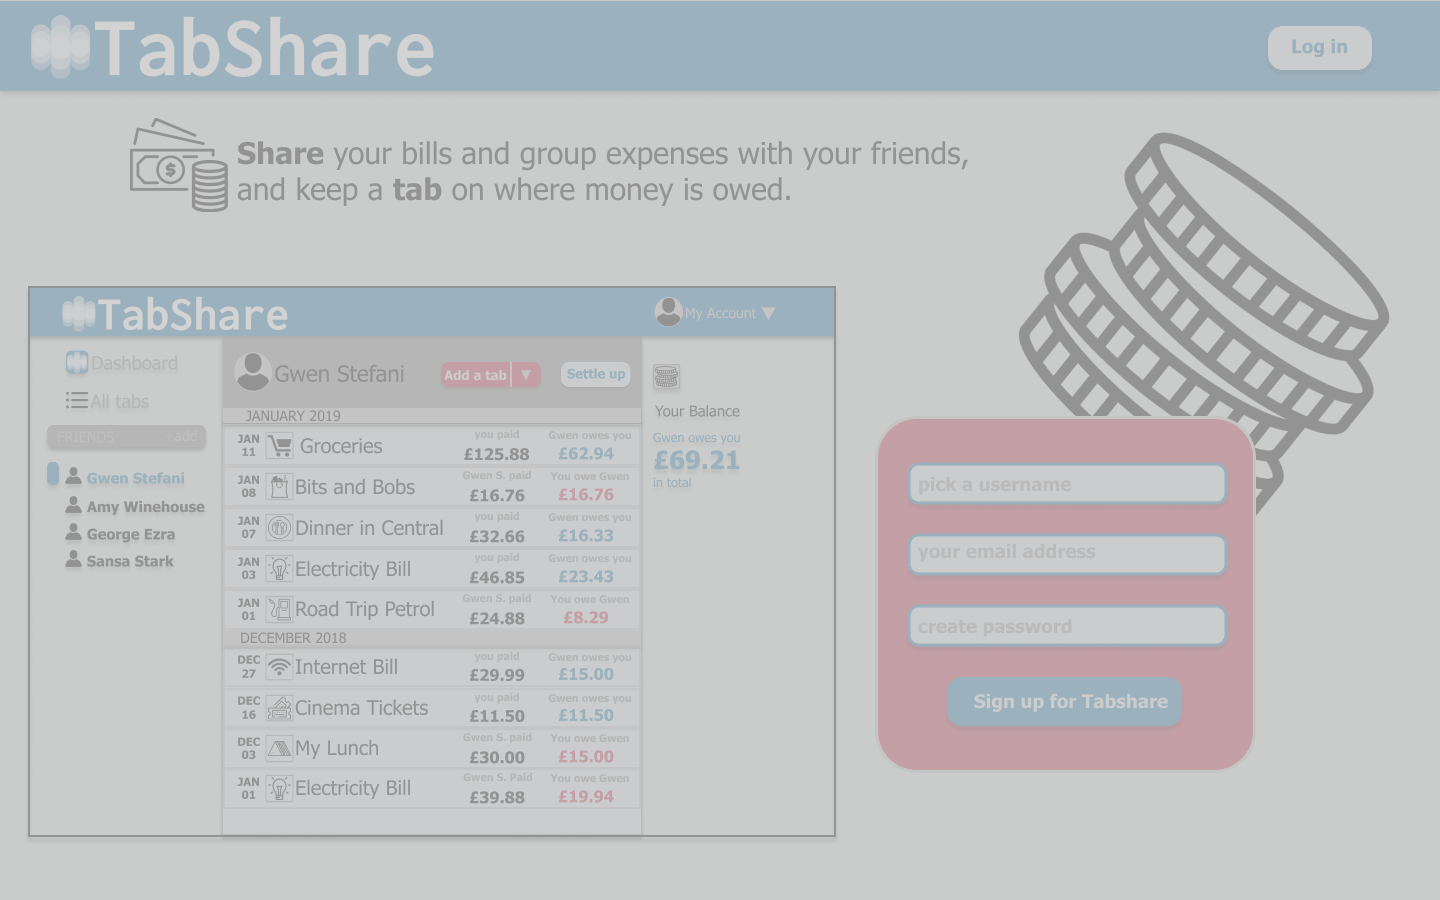
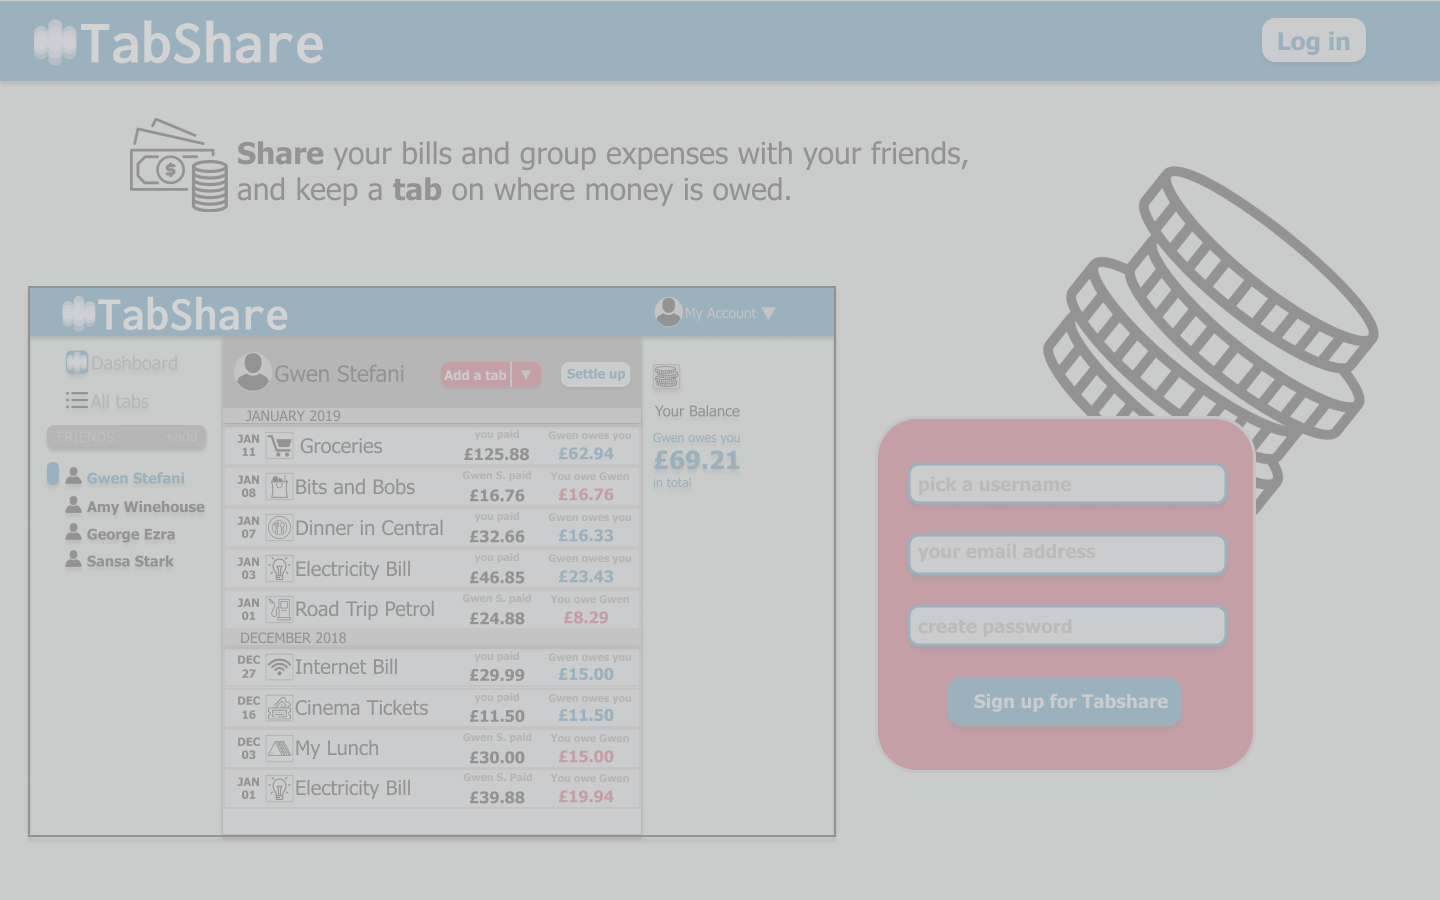
rendering dash panel on signup and login with greeting

Changed region(s): [[0.0, 0.0, 1.0, 0.1244], [0.6875, 0.1556, 0.9688, 0.5289]]

diff --git a/src/components/Dashboard.js b/src/components/Dashboard.js
@@ -5,11 +5,14 @@ import '../App.css';
 import TabShareLogo from '../images/TabShareLogo.png'
 import MidSection from './MidSection'
 import SideBar from './SideBar'
-
+import ProjectIcon from '../images/ProjectIcon.png'
 
 
 class Dashboard extends React.Component {
 
+  dashIcon = {
+    imgurl: ProjectIcon
+  }
  // LogoutBtnClick = () => (
  //    <Route render={({ history}) => (
  //      <button className='logout-btn' type="button" onClick={() => this.handleLogout}>Log out</button>
@@ -25,17 +28,16 @@ class Dashboard extends React.Component {
   render() {
       const { currentUser } = this.props;
 
-
     return(
-      <div {...this.props}>
-        <main className='web-page-box' {...this.props}>
+      <div >
+        <main className='web-page-box'>
           <div className='nav-bar-box'>
             <img className="tab-share-logo" alt="main-logo" src={TabShareLogo} />
             <button className='logout-btn' type="button" onClick={this.handleLogout}>Log out</button>
           </div>
-          <h1 className="login-welcome">Welcome {this.props.value} !</h1>
+          <h1 className="login-welcome">Welcome {currentUser} !</h1>
           <MidSection />
-          <SideBar />
+          <SideBar dashIcon={this.dashIcon.imgurl} />
         </main>
       </div>
     )

diff --git a/src/App.css b/src/App.css
@@ -6,12 +6,14 @@
 }
 
 .nav-bar-box {
-  width: 2880px;
+  width: 1440px;
   height: 80px;
   display: flex;
   background: #2C77A1;
-  justify-content: space-between;
-  align-items: center;
+  left: 0px;
+  top: 1px;
+  /* justify-content: space-between;
+  align-items: center; */
   box-shadow: 0px 4px 4px rgba(0, 0, 0, 0.25);
 }
 
@@ -29,7 +31,7 @@
   height: 44px;
   left: 1262px;
   top: 18px;
-  font-style: tahoma;
+  font-family: tahoma;
   font-size: 25px;
   font-weight: bold;
   color: #2C77A1;
@@ -144,7 +146,7 @@
   width: 425px;
   height: 425px;
   left: 1000px;
-  top: 150px;
+  top: 135px;
 }
 
 .demo-page {
@@ -503,3 +505,22 @@ color: #2C77A1;
   line-height: normal;
 
   color: #000000;}
+
+.project-icon {
+  position: absolute;
+  width: 47.93px;
+  height: 46.24px;
+  left: 115px;
+  top: 100px;
+}
+
+.side-slider {
+  position: absolute;
+  width: 17px;
+  height: 48px;
+  left: 80px;
+  top: 98px;
+
+  background: #2C77A1;
+  border-radius: 5px;
+}

diff --git a/src/components/SignupForm.js b/src/components/SignupForm.js
@@ -15,6 +15,7 @@ class SignupForm extends React.Component {
       this.setState({[event.target.name]: event.target.value})
   }
 
+
   handleSignUpSubmit = event => {
      event.preventDefault()
      const { login, history } = this.props
@@ -23,11 +24,17 @@ class SignupForm extends React.Component {
        if (data.error) {
          alert('Email or Username already in use')
        } else {
-         // logIn(data)
+         login(data)
          history.push("/dashboard")
        }
      })
+     // createCurrentUser()
    }
+
+   // createCurrentUser = (user) => {
+   //   this.state.username = this.props.currentUser
+   // }
+
 
    render() {
      const { classes } = this.props;

diff --git a/src/components/SideBar.js b/src/components/SideBar.js
@@ -1,11 +1,17 @@
 import React from 'react'
-
+import ProjectIcon from '../images/ProjectIcon.png'
 
 class SideBar extends React.Component {
 
   render() {
+    const { dashIcon } = this.props;
     return(
-      <h1 className="dash-selector">Dashboard</h1>
+      <div>
+        <img className="project-icon" src={ProjectIcon}/>
+        <h1 className="dash-selector">Dashboard</h1>
+        <area className="side-slider"></area>
+      </div>
+
     )
   }
 

diff --git a/src/App.js b/src/App.js
@@ -53,7 +53,7 @@ class App extends Component {
       return (
         <div className="App">
               <Route exact path="/" component= {routerProps => (
-                  <Home {...routerProps}/> 
+                  <Home login={this.login}{...routerProps}/> 
                 )} />
               <Route exact path="/log-in" component={routerProps => (
                 <LoginForm login={this.login} {...routerProps} />
